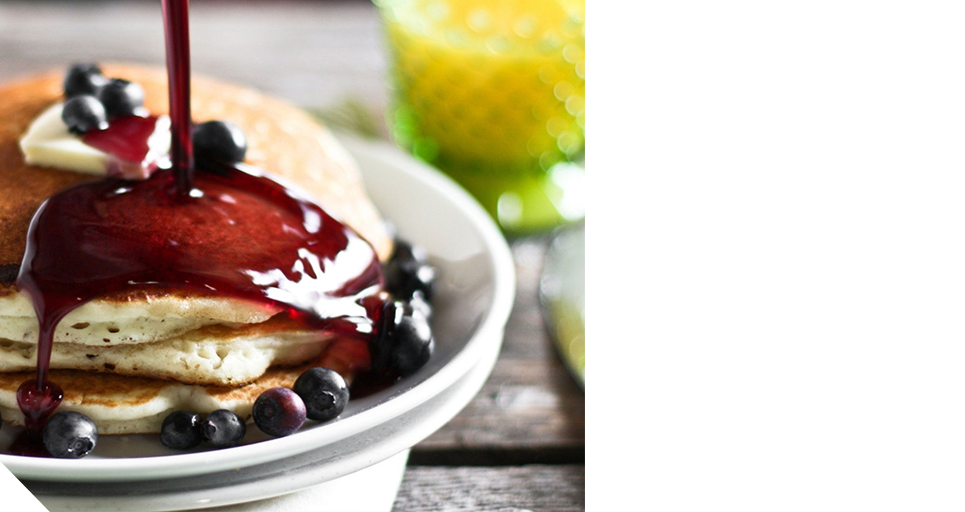
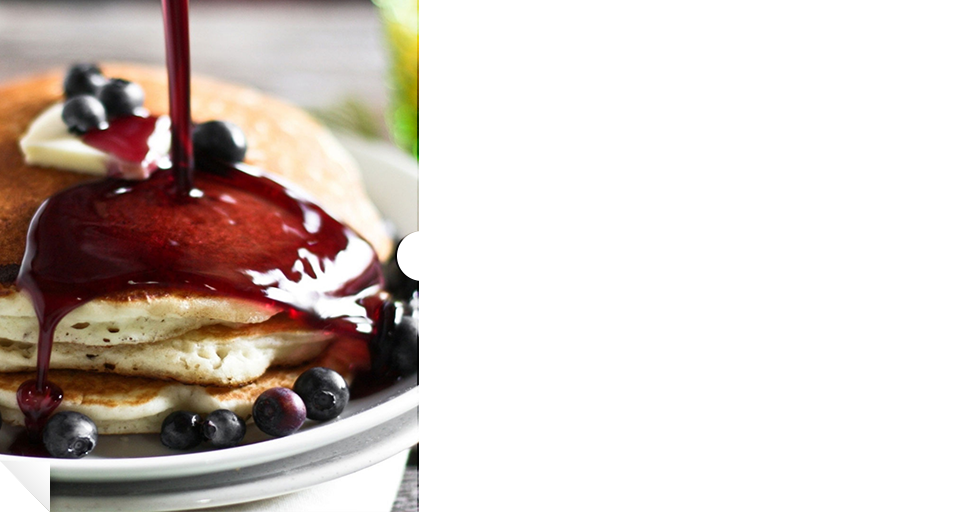
Markup of the tasty pancakes section (without slider)

Changed region(s): [[0.4041, 0.0, 0.6218, 1.0], [0.0, 0.9062, 0.0622, 1.0]]

diff --git a/public/index.html b/public/index.html
@@ -2,7 +2,7 @@
 <html lang="en">
 <head>
     <meta charset="UTF-8">
-    <title>Title</title>
+    <title>Bakery web-site</title>
 
 
     <!-- Connect our stylesheets -->
@@ -90,7 +90,33 @@
                 </div>
             </section>
 
-            <section class="tasty-pancakes"></section>
+            <section class="tasty-pancakes">
+                <div class="container">
+                    <div class="row">
+                        <div class="col-md-1"></div>
+                        <div class="col-md-10 food-widget">
+                            <div class="description">
+                                <div class="section-header">
+                                    <h2>Tasty pancakes</h2>
+                                    <h4>season favourite</h4>
+                                </div>
+
+                                <p>Maecenas nec odio et ante tincidunt tempus. Donec vitae <br>
+                                    sapien ut libero venenatis faucibus. Nullam quis ante. Etiam <br>
+                                    sit amet orci eget eros faucibus.</p>
+
+                                <div class="slider">
+
+                                </div>
+                                <span class="windmill"></span>
+                            </div>
+
+
+                        </div>
+                        <div class="col-md-1"></div>
+                    </div>
+                </div>
+            </section>
 
             <section class="breakfast"></section>
 

diff --git a/source/index.html b/source/index.html
@@ -2,7 +2,7 @@
 <html lang="en">
 <head>
     <meta charset="UTF-8">
-    <title>Title</title>
+    <title>Bakery web-site</title>
 
 
     <!-- Connect our stylesheets -->
@@ -90,7 +90,33 @@
                 </div>
             </section>
 
-            <section class="tasty-pancakes"></section>
+            <section class="tasty-pancakes">
+                <div class="container">
+                    <div class="row">
+                        <div class="col-md-1"></div>
+                        <div class="col-md-10 food-widget">
+                            <div class="description">
+                                <div class="section-header">
+                                    <h2>Tasty pancakes</h2>
+                                    <h4>season favourite</h4>
+                                </div>
+
+                                <p>Maecenas nec odio et ante tincidunt tempus. Donec vitae <br>
+                                    sapien ut libero venenatis faucibus. Nullam quis ante. Etiam <br>
+                                    sit amet orci eget eros faucibus.</p>
+
+                                <div class="slider">
+
+                                </div>
+                                <span class="windmill"></span>
+                            </div>
+
+
+                        </div>
+                        <div class="col-md-1"></div>
+                    </div>
+                </div>
+            </section>
 
             <section class="breakfast"></section>
 

diff --git a/public/css/base.css b/public/css/base.css
@@ -6022,10 +6022,41 @@ header {
         float: right;
         margin-right: -84px; }
   .art-of-cakes .right-part {
-    padding-top: 110px; }
+    padding-top: 40px; }
     .art-of-cakes .right-part .top-image {
       position: absolute;
       left: 31%;
       top: 38%; }
       .art-of-cakes .right-part .top-image img {
         opacity: 0.95; }
+
+.tasty-pancakes {
+  min-height: 760px;
+  background-image: url("../images/backgrounds/tasty-pancakes-bg.png");
+  background-repeat: no-repeat;
+  padding-top: 140px; }
+  .tasty-pancakes .food-widget {
+    background-image: url("../images/backgrounds/tasty-pancakes-description-bg.png");
+    background-repeat: no-repeat;
+    height: 512px;
+    width: 965px; }
+    .tasty-pancakes .food-widget .description {
+      width: 400px;
+      margin-left: 475px;
+      margin-top: 65px; }
+      .tasty-pancakes .food-widget .description .section-header {
+        text-align: left;
+        padding-bottom: 50px; }
+      .tasty-pancakes .food-widget .description p {
+        color: #56534c;
+        padding-bottom: 100px; }
+      .tasty-pancakes .food-widget .description .windmill {
+        background-image: url("../images/content/tasty-pancakes-windmill.png");
+        background-repeat: no-repeat;
+        display: block;
+        width: 261px;
+        height: 294px;
+        margin: 0;
+        position: absolute;
+        right: 0;
+        bottom: 0; }

diff --git a/source/sass/layout/_tasty-pancakes.scss b/source/sass/layout/_tasty-pancakes.scss
@@ -1,0 +1,53 @@
+.tasty-pancakes {
+  min-height: 760px;
+  background-image: url('../images/backgrounds/tasty-pancakes-bg.png');
+  background-repeat: no-repeat;
+  padding-top: 140px;
+
+  .food-widget {
+    background-image: url('../images/backgrounds/tasty-pancakes-description-bg.png');
+    background-repeat: no-repeat;
+    height: 512px;
+    width: 965px;
+
+    .description {
+      width: 400px;
+      margin-left: 475px;
+      margin-top: 65px;
+
+      .section-header {
+        text-align: left;
+        padding-bottom: 50px;
+      }
+
+      p {
+        color: #56534c;
+        padding-bottom: 100px;
+      }
+
+      .slider {
+
+      }
+
+      .windmill {
+        background-image: url('../images/content/tasty-pancakes-windmill.png');
+        background-repeat: no-repeat;
+
+        display: block;
+        width: 261px;
+        height: 294px;
+        margin: 0;
+        position: absolute;
+        right: 0;
+        bottom: 0;
+
+      }
+
+    }
+  }
+
+
+
+
+
+}

diff --git a/source/sass/layout/__layout.scss b/source/sass/layout/__layout.scss
@@ -2,6 +2,7 @@
 @import "general";
 @import "header";
 @import "art-of-cakes";
+@import "tasty-pancakes";
 
 @import "content"; //or some imports of files for separate blocks if we use BEM metodology
 @import "footer";

diff --git a/source/sass/layout/_art-of-cakes.scss b/source/sass/layout/_art-of-cakes.scss
@@ -109,7 +109,7 @@
   }
 
   .right-part {
-    padding-top: 110px;
+    padding-top: 40px;
 
     .top-image {
       position: absolute;
